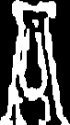
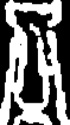
Countours looking NICE, need some edits for edge cases

diff --git a/python_backend/OpenCV-Playing-Card-Detector/Rank_Suit_Isolator.py b/python_backend/OpenCV-Playing-Card-Detector/Rank_Suit_Isolator.py
@@ -46,134 +46,185 @@ for Name in ['Ace','Two','Three','Four','Five','Six','Seven','Eight',
              'Clubs','Hearts']:
 
     filename = Name + '.jpg'
+    capture_successful = False  # Flag to indicate successful capture
 
-    print('Press "p" to take a picture of ' + filename)
-    
-    
+    while not capture_successful:
+        print('Press "p" to take a picture of ' + filename)
 
-    if PiOrUSB == 1: # PiCamera
-        rawCapture.truncate(0)
-        # Press 'p' to take a picture
-        for frame in camera.capture_continuous(rawCapture, format="bgr",use_video_port=True):
-
-            image = frame.array
-            cv2.imshow("Card",image)
-            key = cv2.waitKey(1) & 0xFF
-            if key == ord("p"):
-                break
-
+        if PiOrUSB == 1: # PiCamera
             rawCapture.truncate(0)
+            # Press 'p' to take a picture
+            for frame in camera.capture_continuous(rawCapture, format="bgr",use_video_port=True):
 
-    if PiOrUSB == 2: # USB camera
-        # Press 'p' to take a picture
-        while(True):
+                image = frame.array
+                cv2.imshow("Card",image)
+                key = cv2.waitKey(1) & 0xFF
+                if key == ord("p"):
+                    break
 
-            ret, frame = cap.read()
-            cv2.imshow("Card",frame)
-            key = cv2.waitKey(1) & 0xFF
-            if key == ord("p"):
-                image = frame
-                break
+                rawCapture.truncate(0)
 
-    # Pre-process image
-    gray = cv2.cvtColor(image,cv2.COLOR_BGR2GRAY)
-    blur = cv2.GaussianBlur(gray,(5,5),0)
-    retval, thresh = cv2.threshold(blur,100,255,cv2.THRESH_BINARY)
+        if PiOrUSB == 2: # USB camera
+            # Press 'p' to take a picture
+            while(True):
 
-    # Find contours and sort them by size
-    cnts,hier = cv2.findContours(thresh,cv2.RETR_TREE,cv2.CHAIN_APPROX_SIMPLE)
-    cnts = sorted(cnts, key=cv2.contourArea,reverse=True)
+                ret, frame = cap.read()
+                cv2.imshow("Card",frame)
+                key = cv2.waitKey(1) & 0xFF
+                if key == ord("p"):
+                    image = frame
+                    break
 
-    # Assume largest contour is the card. If there are no contours, print an error
-    flag = 0
-    image2 = image.copy()
+        # Pre-process image
+        gray = cv2.cvtColor(image,cv2.COLOR_BGR2GRAY)
+        blur = cv2.GaussianBlur(gray,(5,5),0)
+        retval, thresh = cv2.threshold(blur,100,255,cv2.THRESH_BINARY)
 
-    if len(cnts) == 0:
-        print('No contours found!')
-        quit()
+        # Find contours and sort them by size
+        cnts,hier = cv2.findContours(thresh,cv2.RETR_TREE,cv2.CHAIN_APPROX_SIMPLE)
+        cnts = sorted(cnts, key=cv2.contourArea,reverse=True)
 
-    card = cnts[0]
+        # Assume largest contour is the card. If there are no contours, print an error
+        flag = 0
+        image2 = image.copy()
 
-    # Approximate the corner points of the card
-    peri = cv2.arcLength(card,True)
-    approx = cv2.approxPolyDP(card,0.01*peri,True)
-    pts = np.float32(approx)
+        if len(cnts) == 0:
+            print('No contours found!')
+            print('Press "r" to retry, or "q" to quit.')
+            key = cv2.waitKey(0) & 0xFF
+            if key == ord('r'):
+                continue  # Retry capturing the image
+            elif key == ord('q'):
+                cv2.destroyAllWindows()
+                if PiOrUSB == 2:
+                    cap.release()
+                if PiOrUSB == 1:
+                    camera.close()
+                exit()
+            else:
+                continue
 
-    x,y,w,h = cv2.boundingRect(card)
+        card = cnts[0]
 
-    # Flatten the card and convert it to 200x300
-    warp = Cards.flattener(image,pts,w,h)
+        # Approximate the corner points of the card
+        peri = cv2.arcLength(card,True)
+        approx = cv2.approxPolyDP(card,0.01*peri,True)
+        pts = np.float32(approx)
 
-    # Increase the width and height to capture more of the corner
-    corner = warp[0:100, 0:50]
+        x,y,w,h = cv2.boundingRect(card)
 
-    #corner_gray = cv2.cvtColor(corner,cv2.COLOR_BGR2GRAY)
-    corner_zoom = cv2.resize(corner, (0,0), fx=4, fy=4)
-    # corner_blur = cv2.GaussianBlur(corner_zoom,(5,5),0)
-    # retval, corner_thresh = cv2.threshold(corner_blur, 155, 255, cv2. THRESH_BINARY_INV)
+        # Flatten the card and convert it to 200x300
+        warp = Cards.flattener(image,pts,w,h)
 
-    # Convert to blur
-    corner_blur = cv2.GaussianBlur(corner_zoom, (5, 5), 0)
+        # Increase the width and height to capture more of the corner
+        corner = warp[0:100, 0:50]
 
-    # Optional: possibly apply histogram equalization
-    # corner_blur = cv2.equalizeHist(corner_blur)
+        #corner_gray = cv2.cvtColor(corner,cv2.COLOR_BGR2GRAY)
+        corner_zoom = cv2.resize(corner, (0,0), fx=4, fy=4)
+        # corner_blur = cv2.GaussianBlur(corner_zoom,(5,5),0)
+        # retval, corner_thresh = cv2.threshold(corner_blur, 155, 255, cv2. THRESH_BINARY_INV)
 
-    # Apply adaptive thresholding
-    corner_thresh = cv2.adaptiveThreshold(
-        corner_blur, 255, cv2.ADAPTIVE_THRESH_GAUSSIAN_C, cv2.THRESH_BINARY_INV, 11, 2
-    )
+        # Convert to blur
+        corner_blur = cv2.GaussianBlur(corner_zoom, (5, 5), 0)
 
-    # Apply morphological opening to remove noise
-    kernel = np.ones((3, 3), np.uint8)
-    corner_thresh = cv2.morphologyEx(corner_thresh, cv2.MORPH_OPEN, kernel)
+        # Optional: possibly apply histogram equalization
+        # corner_blur = cv2.equalizeHist(corner_blur)
 
-    # Visualize the thresholded corner
-    cv2.imshow("Corner Threshold", corner_thresh)
-    # cv2.waitKey(0)
+        # Apply adaptive thresholding
+        corner_thresh = cv2.adaptiveThreshold(
+            corner_blur, 255, cv2.ADAPTIVE_THRESH_GAUSSIAN_C, cv2.THRESH_BINARY_INV, 11, 2
+        )
 
-    # Isolate suit or rank
-    if i <= 13: # Isolate rank
-        rank = corner_thresh[20:200, 0:200] # Adjust these indices if necessary
-        cv2.imshow("Rank Image", rank)
+        # Apply morphological opening to remove noise
+        kernel = np.ones((3, 3), np.uint8)
+        corner_thresh = cv2.morphologyEx(corner_thresh, cv2.MORPH_OPEN, kernel)
+
+        # Visualize the thresholded corner
+        cv2.imshow("Corner Threshold", corner_thresh)
         # cv2.waitKey(0)
-        rank_cnts, hier = cv2.findContours(rank, cv2.RETR_TREE, cv2.CHAIN_APPROX_SIMPLE)
-        rank_cnts = sorted(rank_cnts, key=cv2.contourArea, reverse=True)
-        if len(rank_cnts) > 0:
-            x, y, w, h = cv2.boundingRect(rank_cnts[0])
-            rank_roi = rank[y:y+h, x:x+w]
-            rank_sized = cv2.resize(rank_roi, (RANK_WIDTH, RANK_HEIGHT), 0, 0)
-            final_img = rank_sized
-            # Normalize before saving
-            final_img = cv2.normalize(final_img, None, 0, 255, cv2.NORM_MINMAX)
-        else:
-            print(f"No contours found in rank image for {filename}!")
+
+        # Isolate suit or rank
+        if i <= 13: # Isolate rank
+            rank = corner_thresh[20:200, 0:200] # Adjust these indices if necessary
+            cv2.imshow("Rank Image", rank)
+            # cv2.waitKey(0)
+            rank_cnts, hier = cv2.findContours(rank, cv2.RETR_TREE, cv2.CHAIN_APPROX_SIMPLE)
+            rank_cnts = sorted(rank_cnts, key=cv2.contourArea, reverse=True)
+            if len(rank_cnts) > 0:
+                x, y, w, h = cv2.boundingRect(rank_cnts[0])
+                rank_roi = rank[y:y+h, x:x+w]
+                rank_sized = cv2.resize(rank_roi, (RANK_WIDTH, RANK_HEIGHT), 0, 0)
+                final_img = rank_sized
+                # Normalize before saving
+                final_img = cv2.normalize(final_img, None, 0, 255, cv2.NORM_MINMAX)
+            else:
+                print(f"No contours found in rank image for {filename}!")
+                print('Press "r" to retry, or "q" to quit.')
+                key = cv2.waitKey(0) & 0xFF
+                if key == ord('r'):
+                    continue  # Retry capturing the image
+                elif key == ord('q'):
+                    cv2.destroyAllWindows()
+                    if PiOrUSB == 2:
+                        cap.release()
+                    if PiOrUSB == 1:
+                        camera.close()
+                    exit()
+                else:
+                    continue
+
+        if i > 13: # Isolate suit
+            suit = corner_thresh[200:400, 0:200] # Adjust these indices if necessary
+            cv2.imshow("Suit Image", suit)
+            # cv2.waitKey(0)
+            suit_cnts, hier = cv2.findContours(suit, cv2.RETR_TREE, cv2.CHAIN_APPROX_SIMPLE)
+            suit_cnts = sorted(suit_cnts, key=cv2.contourArea, reverse=True)
+            if len(suit_cnts) > 0:
+                x, y, w, h = cv2.boundingRect(suit_cnts[0])
+                suit_roi = suit[y:y+h, x:x+w]
+                suit_sized = cv2.resize(suit_roi, (SUIT_WIDTH, SUIT_HEIGHT), 0, 0)
+                final_img = suit_sized
+                # Normalize before saving
+                final_img = cv2.normalize(final_img, None, 0, 255, cv2.NORM_MINMAX)
+            else:
+                print(f"No contours found in rank image for {filename}!")
+                print('Press "r" to retry, or "q" to quit.')
+                key = cv2.waitKey(0) & 0xFF
+                if key == ord('r'):
+                    continue  # Retry capturing the image
+                elif key == ord('q'):
+                    cv2.destroyAllWindows()
+                    if PiOrUSB == 2:
+                        cap.release()
+                    if PiOrUSB == 1:
+                        camera.close()
+                    exit()
+                else:
+                    continue
+
+
+        cv2.imshow("Final Image",final_img)
+
+        # Save image, retry or quit
+        print('Press "c" to continue and save the image, "r" to retry, or "q" to quit.')
+        key = cv2.waitKey(0) & 0xFF
+        if key == ord('c'):
+            # Save image
+            cv2.imwrite(img_path + filename, final_img)
+            capture_successful = True  # Exit the while loop
+        elif key == ord('r'):
+            # Retry: Go back to the start of the while loop
             continue
-
-    if i > 13: # Isolate suit
-        suit = corner_thresh[200:400, 0:200] # Adjust these indices if necessary
-        cv2.imshow("Suit Image", suit)
-        # cv2.waitKey(0)
-        suit_cnts, hier = cv2.findContours(suit, cv2.RETR_TREE, cv2.CHAIN_APPROX_SIMPLE)
-        suit_cnts = sorted(suit_cnts, key=cv2.contourArea, reverse=True)
-        if len(suit_cnts) > 0:
-            x, y, w, h = cv2.boundingRect(suit_cnts[0])
-            suit_roi = suit[y:y+h, x:x+w]
-            suit_sized = cv2.resize(suit_roi, (SUIT_WIDTH, SUIT_HEIGHT), 0, 0)
-            final_img = suit_sized
-            # Normalize before saving
-            final_img = cv2.normalize(final_img, None, 0, 255, cv2.NORM_MINMAX)
+        elif key == ord('q'):
+            cv2.destroyAllWindows()
+            if PiOrUSB == 2:
+                cap.release()
+            if PiOrUSB == 1:
+                camera.close()
+            exit()
         else:
-            print(f"No contours found in suit image for {filename}!")
+            # Any other key, default to retry
             continue
-
-
-    cv2.imshow("Image",final_img)
-
-    # Save image
-    print('Press "c" to continue.')
-    key = cv2.waitKey(0) & 0xFF
-    if key == ord('c'):
-        cv2.imwrite(img_path+filename,final_img)
 
     i = i + 1
 
